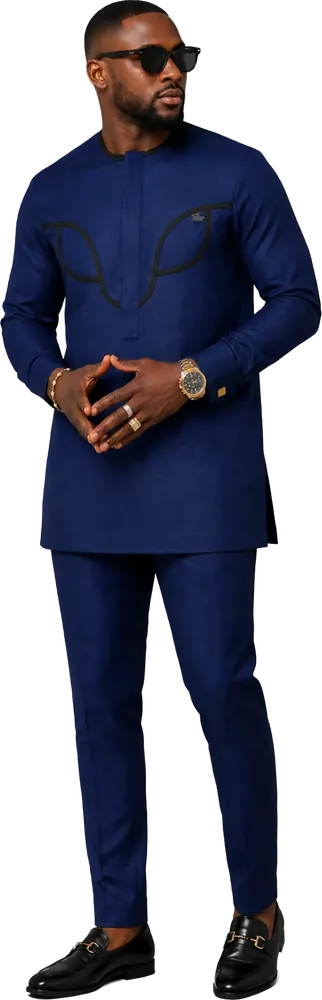
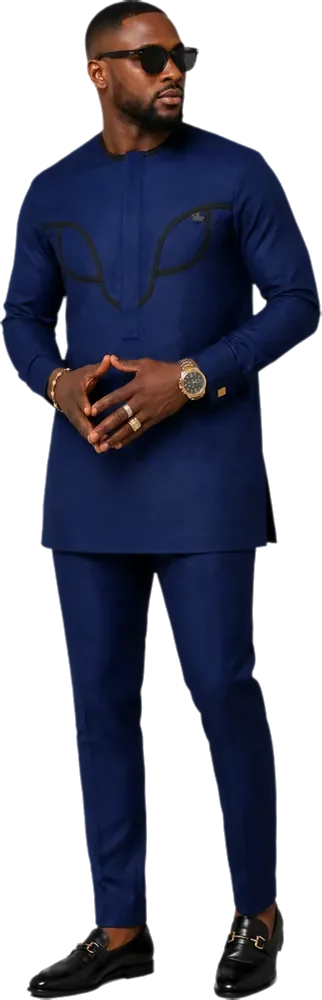
Bords des détourages nettoyés, 2 vestes ajoutées, gilet à carreaux sur la tuile Vestes
Claude-Session: https://claude.ai/code/session_01Xz6uQh1czsZs6w8qvcemNM

diff --git a/content.js b/content.js
@@ -61,7 +61,7 @@ window.SITE = {
   // Deux familles : les ensembles (manches longues et courtes) et les vestes.
   categories: [
     { id: 'ensembles', label: 'Ensembles', text: 'Manches longues ou courtes, broderies, liserés et surpiqûres.', cover: '026' },
-    { id: 'vestes', label: 'Vestes & costumes', text: 'Col mao, sahariennes, gilets et jacquards.', cover: '020' },
+    { id: 'vestes', label: 'Vestes & costumes', text: 'Col mao, sahariennes, gilets et jacquards.', cover: '028' },
   ],
 
   // Catalogue. ref = numéro du modèle (à reprendre dans les légendes TikTok/Instagram).
@@ -76,7 +76,7 @@ window.SITE = {
     { ref: '007', name: 'Ensemble Kaki', cat: 'ensembles', price: 45000, color: 'Kaki', hex: '#4b5236', img: 'images/tenues/ensemble-kaki.webp', detail: 'Poche matelassée' },
     { ref: '008', name: 'Ensemble Marine Col Beige', cat: 'ensembles', price: 50000, color: 'Bleu marine', hex: '#1e2a44', img: 'images/tenues/ensemble-marine-col-beige.webp', detail: 'Col et poche contrastés' },
     { ref: '009', name: 'Ensemble Gilet Marine', cat: 'vestes', price: 65000, color: 'Marine & gris perle', hex: '#1f2f5c', img: 'images/tenues/ensemble-gilet-marine.webp', detail: 'Gilet col châle, chemise à nervures, poignets contrastés' },
-    { ref: '010', name: 'Ensemble Camel Manches Blanches', cat: 'ensembles', price: 50000, color: 'Camel & blanc', hex: '#a07850', img: 'images/tenues/ensemble-camel-manches-blanches.webp', detail: 'Plastron camel, manches blanches, col officier' },
+    { ref: '010', name: 'Ensemble Camel Manches Blanches', cat: 'vestes', price: 50000, color: 'Camel & blanc', hex: '#a07850', img: 'images/tenues/ensemble-camel-manches-blanches.webp', detail: 'Plastron camel, manches blanches, col officier' },
     { ref: '011', name: 'Saharienne Sable', cat: 'vestes', price: 70000, color: 'Sable', hex: '#cdb38c', img: 'images/tenues/saharienne-sable.webp', detail: 'Veste à quatre poches, boutons contrastés' },
     { ref: '012', name: 'Costume Col Mao Marine', cat: 'vestes', price: 75000, color: 'Bleu marine', hex: '#1b2238', img: 'images/tenues/costume-col-mao-marine.webp', detail: 'Col mao, poches à rabat, pochette' },
     { ref: '013', name: 'Veste Jacquard Fleurie', cat: 'vestes', price: 70000, color: 'Marine & or', hex: '#2b3554', img: 'images/tenues/veste-jacquard-fleurie.webp', detail: 'Jacquard à fleurs, col mao, boutons métal' },
@@ -88,6 +88,8 @@ window.SITE = {
     { ref: '025', name: 'Ensemble Zippé Chocolat', cat: 'ensembles', price: 55000, color: 'Chocolat & sable', hex: '#4a2c22', img: 'images/tenues/ensemble-zippe-chocolat.webp', detail: 'Fermeture zippée dorée, manches sable, poches liserées' },
     { ref: '026', name: 'Ensemble Kaki Liseré', cat: 'ensembles', price: 50000, color: 'Kaki', hex: '#5b5f3e', img: 'images/tenues/ensemble-kaki-lisere.webp', detail: 'Tissu texturé, liserés noirs en arabesque' },
     { ref: '027', name: 'Ensemble Mauve Empiècement', cat: 'ensembles', price: 50000, color: 'Mauve & prune', hex: '#9a7f99', img: 'images/tenues/ensemble-mauve.webp', detail: 'Empiècement prune, poches arrondies, liseré crème' },
+    { ref: '028', name: 'Gilet Carreaux Chocolat', cat: 'vestes', price: 70000, color: 'Chocolat', hex: '#4a2a20', img: 'images/tenues/gilet-carreaux-chocolat.webp', detail: 'Gilet col mao à carreaux, boutons dorés, pochette, chemise blanche' },
+    { ref: '029', name: 'Veste Longue Chocolat', cat: 'vestes', price: 65000, color: 'Chocolat & sable', hex: '#5a3a2c', img: 'images/tenues/veste-longue-chocolat.webp', detail: 'Veste longue sans manches sur tunique sable à nervures' },
     // Sorties d'atelier : photo de la tenue pliée (img) + photo d'atelier complète (photo)
     { ref: '014', name: 'Ensemble Noir Losanges', cat: 'ensembles', price: 50000, color: 'Noir', hex: '#14161c', img: 'images/atelier/noir-losanges-plie.jpg', photo: 'images/atelier/noir-losanges.jpg', flat: true, detail: 'Plastron brodé à motif losanges, boutons dorés' },
     { ref: '015', name: 'Ensemble Carreaux Gris', cat: 'ensembles', price: 55000, color: 'Gris taupe', hex: '#6f6a64', img: 'images/atelier/carreaux-gris-plie.jpg', photo: 'images/atelier/carreaux-gris.jpg', flat: true, detail: 'Tissu à carreaux, poche brodée, col doublé imprimé' },
@@ -99,7 +101,7 @@ window.SITE = {
   featured: '024', // tenue mise en avant (bloc « pièce vedette »)
   featuredStrip: ['024', '013', '020', '025'], // miniatures du bloc vedette
   // Tenues affichées sur l'accueil (photos studio) ; la page Collection les affiche toutes
-  home: ['023', '024', '027', '025', '026', '002', '019', '020', '013', '012', '009', '011'],
+  home: ['023', '024', '028', '027', '025', '026', '029', '020', '013', '012', '009', '002'],
 
   // Bandeau défilant sous l'accueil
   marquee: ['L’élégance', 'La modernité', 'La distinction', 'Fait à Dakar', 'Sur mesure', 'Livraison Sénégal & diaspora'],
